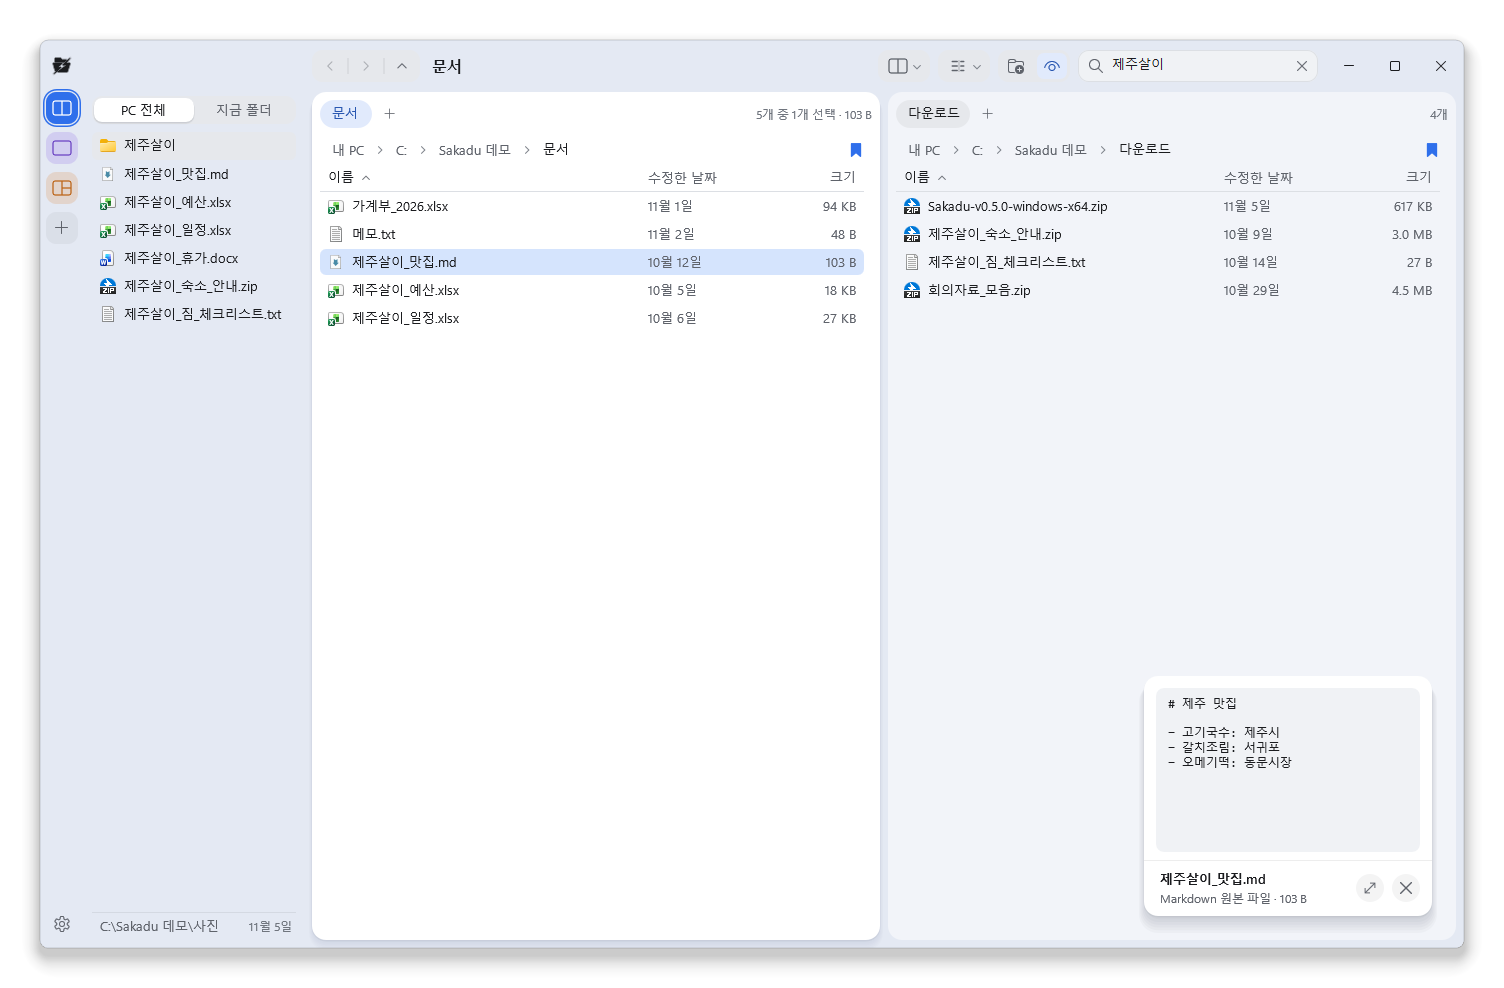
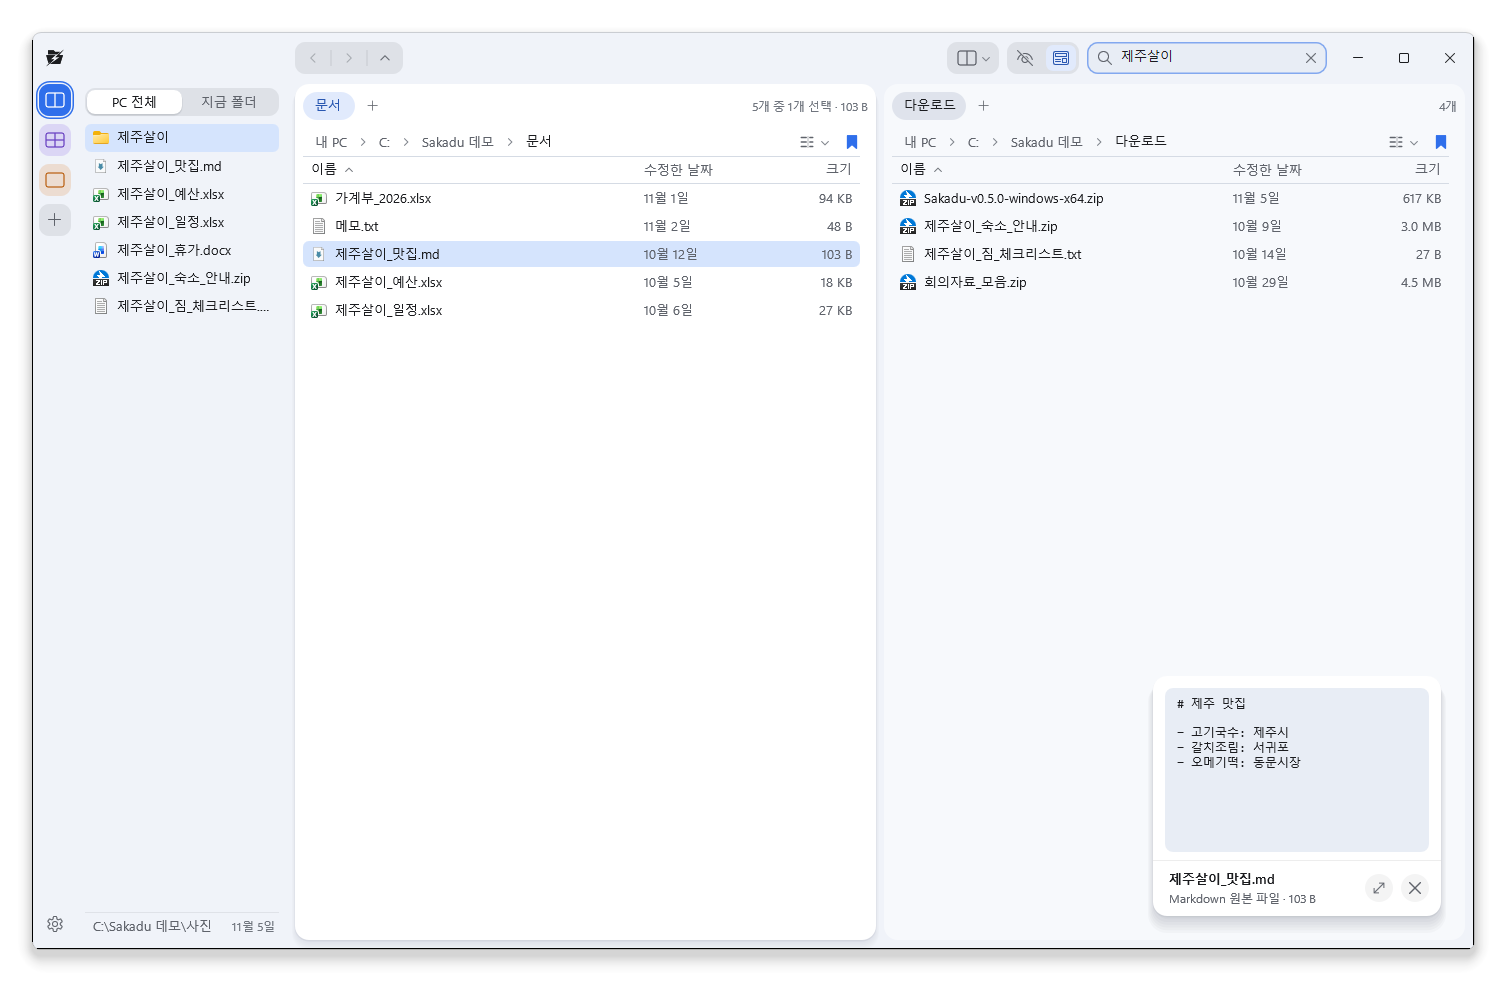
0.9.0 준비: 판 번호, README 글과 화면 셋
- Cargo.toml·Cargo.lock 0.9.0
- README(한·영): 칸마다 보기 방식과 가운데 끌기, 미리 보기 카드의 PDF·파워포인트·동영상·한글·SVG, 즐겨찾기 끌어 옮기기·그룹
- 화면 셋을 새 도구 막대·칸 모습으로 다시 찍음 (데모 폴더, 화면 밖 시험 창)

diff --git a/README.en.md b/README.en.md
@@ -13,11 +13,11 @@ A Windows file manager that keeps several folders open side by side and finds an
 ## Features
 
 - **Instant search**: press Ctrl+F, type a few letters, and results from the whole disk show up right away (10–20 ms over 1.8 million entries). Results stay in the left panel so you can open them one by one. Add a shared folder or USB drive and it's searched too.
-- **Several folders in one window**: split into 2, 3 or 4 panes, each with its own tabs. Drag a tab to move it to another pane.
+- **Several folders in one window**: split into 2, 3 or 4 panes, each with its own tabs and its own view (details, list or icons). Drag a tab to move it to another pane, or drag the point where the dividers meet to resize both ways at once.
 - **Ctrl+K command menu**: jump to an open tab, pinned place or recent location, or find and run a command by name (Korean initial consonants work too).
 - **Works like Explorer**: right-click menus, the copy progress dialog and drag and drop behave as they do in Explorer. Moved something by mistake? Use the **되돌리기** (undo) button on the notice, or Ctrl+Z.
-- **Look before you open**: select a picture or text file and a preview card appears at the bottom of the neighbouring pane. PDFs and Office documents open in the preview pane (Alt+P), where you can pin a reference file to keep it in view.
-- **Workspaces**: switch workspaces from the rail on the left. Each one remembers its own layout (panes and tabs), pinned places and color. A new tab opens on your pinned places and recent locations.
+- **Look before you open**: select a file and a preview card appears at the bottom of the neighbouring pane: pictures and text, and also the first page of PDFs and PowerPoint files, a frame of a video, Hangul (hwp) documents and SVG. Excel and Word files open in the preview pane (Alt+P), where you can pin a reference file to keep it in view.
+- **Workspaces**: switch workspaces from the rail on the left. Each one remembers its own layout (panes and tabs), pinned places and color. Drag pinned places and the favorites under '모든 공간' (all spaces) to reorder them, put them into groups or move them between the two. A new tab opens on your pinned places and recent locations.
 - **NAS**: shares that need a sign-in open through the Windows sign-in dialog, and a dropped connection shows the last list you saw.
 - **Light**: no runtime or web view; it's Rust drawing with Direct2D. Dark mode follows your Windows setting.
 

diff --git a/README.md b/README.md
@@ -11,11 +11,11 @@
 ## 기능
 
 - **바로 찾기**: Ctrl+F를 누르고 몇 글자만 치면 디스크 전체에서 바로 나와요(180만 개에서 10~20ms). 결과는 왼쪽 패널에 남아서 하나씩 열어 볼 수 있어요. 공유폴더·USB도 넣어 두면 함께 찾아요.
-- **한 창에 여러 폴더**: 화면을 2·3·4칸으로 나누고 칸마다 탭을 열어요. 탭은 끌어서 다른 칸으로 옮겨요.
+- **한 창에 여러 폴더**: 화면을 2·3·4칸으로 나누고 칸마다 탭을 열어요. 보기 방식(자세히·목록·아이콘)도 칸마다 골라요. 탭은 끌어서 다른 칸으로 옮기고, 칸 사이 가운데를 끌면 가로·세로가 함께 바뀌어요.
 - **Ctrl+K 명령 메뉴**: 열린 탭·고정한 곳·최근 위치로 가고, 명령을 이름이나 초성으로 찾아 실행해요.
 - **탐색기와 같은 동작**: 우클릭 메뉴, 복사 진행 창, 끌어서 놓기가 탐색기와 같아요. 잘못 옮기면 알림의 **되돌리기**나 Ctrl+Z.
-- **열지 않고 확인**: 그림이나 글 파일을 고르면 미리 보기 카드가 옆 칸 아래에 저절로 떠요. PDF·Office 문서는 미리 보기 창(Alt+P)으로 보고, 참고할 파일은 거기에 고정해 둬요.
-- **작업 공간**: 왼쪽 레일에서 작업 공간을 바꿔요. 공간마다 화면(칸·탭)과 고정한 곳, 색을 따로 기억해요. 새 탭에는 고정한 곳과 최근 위치가 바로 보여요.
+- **열지 않고 확인**: 파일을 고르면 미리 보기 카드가 옆 칸 아래에 저절로 떠요. 그림·글뿐 아니라 PDF·파워포인트 첫 장, 동영상 장면, 한글(hwp) 문서, SVG도 보여요. 엑셀·워드는 미리 보기 창(Alt+P)에서 보고, 참고할 파일은 거기에 고정해 둬요.
+- **작업 공간**: 왼쪽 레일에서 작업 공간을 바꿔요. 공간마다 화면(칸·탭)과 고정한 곳, 색을 따로 기억해요. 고정한 곳과 '모든 공간'의 즐겨찾기는 끌어서 순서를 바꾸고, 그룹에 넣고, 서로 옮겨요. 새 탭에는 고정한 곳과 최근 위치가 바로 보여요.
 - **NAS**: 로그인이 필요한 공유는 Windows 로그인 창으로 열고, 연결이 끊기면 마지막으로 본 목록을 보여 줘요.
 - **가벼움**: 런타임·웹뷰 없이 Rust와 Direct2D로 직접 그려요. 다크 모드는 Windows 설정을 따라가요.
 
